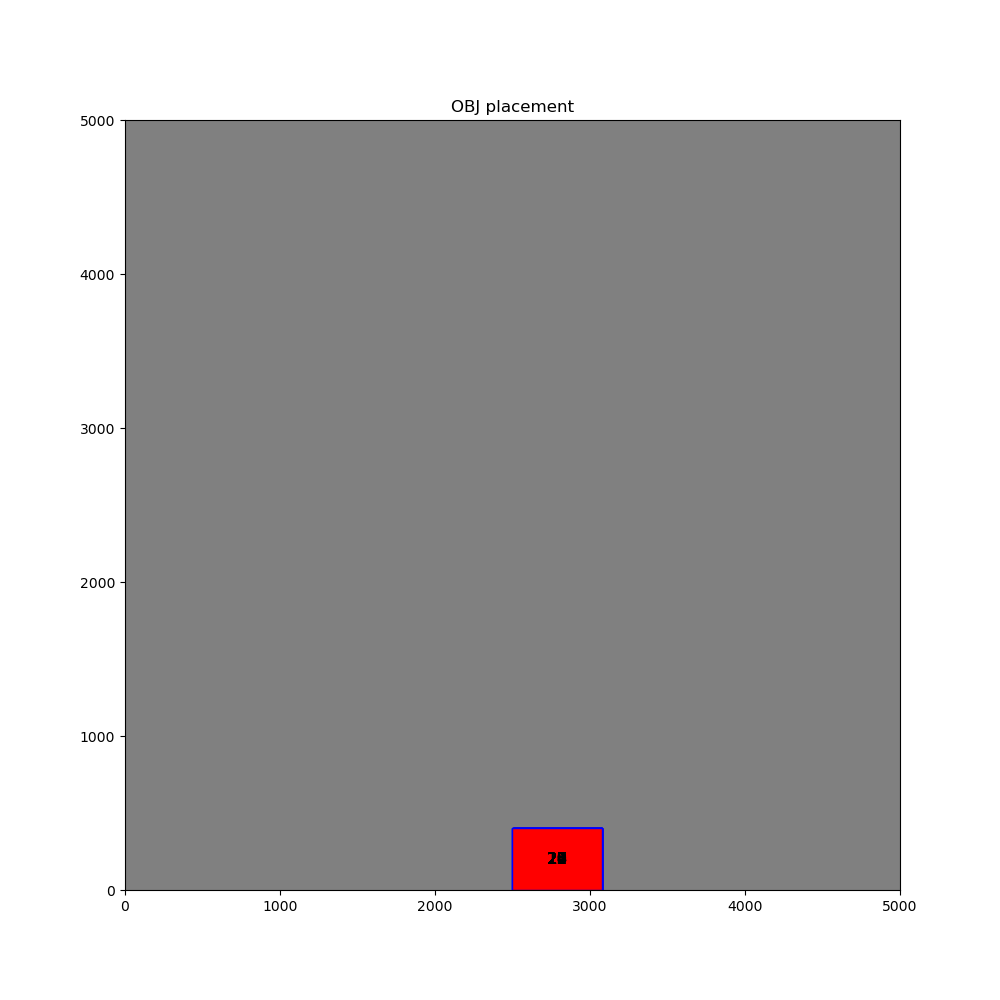
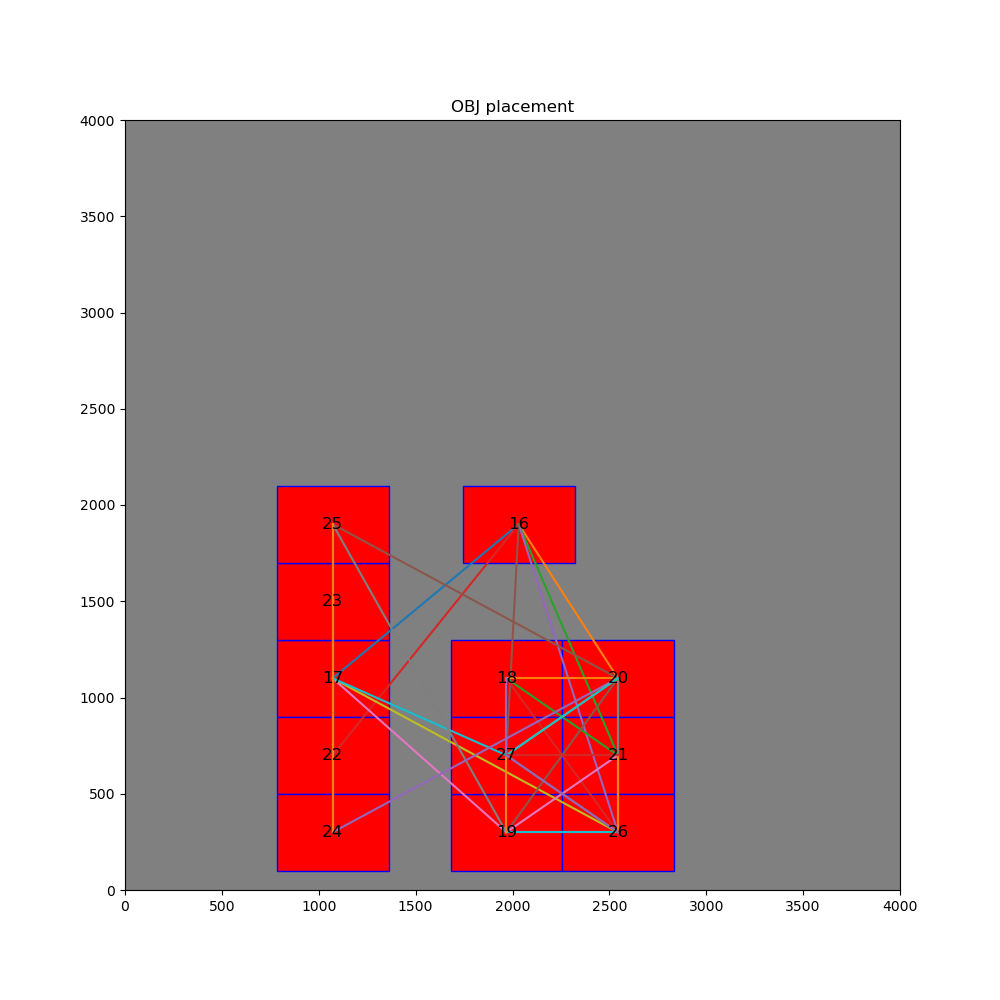
Added symmetry, tweaked heuristic. Started working on auxillery functions

diff --git a/linear_optimization/linear_optimization_test2.py b/linear_optimization/linear_optimization_test2.py
@@ -1,14 +1,5 @@
-from fontTools.varLib.models import subList
-
 from circuit.circuit_components import Pin, CircuitCell, Transistor
 import pulp
-
-
-def _element_in_sublist(element, big_list):
-    for small_list in big_list:
-        if element in small_list:
-            return True
-    return False
 
 
 class LinearOptimizationSolver:
@@ -16,17 +7,17 @@ class LinearOptimizationSolver:
     UNIT_HEIGHT = 100
     UNIT_WIDTH = 64
 
-    OFFSET_X = 184
-    OFFSET_Y = 128
-
-    MIRROR =True
+    OFFSET_X = (184+ 100)*0
+    OFFSET_Y = (128 + 100)*0
+    CONSTRAIN_MANHATTAN = False
+    SKIP = True
 
     RUN = True
 
     def __init__(self, object_info, connections, local_connections, grid_size, overlap_dict):
 
         self.problem_space = pulp.LpProblem("ObjectPlacementWithSizes", pulp.LpMinimize)
-        self.solver = pulp.PULP_CBC_CMD(msg=True, threads=75, timeLimit=2* 60)
+        self.solver = pulp.PULP_CBC_CMD(msg=True, threads=75, timeLimit=10* 60)
         self.object_info = object_info
         self.objects = []
         self.overlap_dict = overlap_dict
@@ -40,8 +31,6 @@ class LinearOptimizationSolver:
         self.grid_size = grid_size
         self.width = {}
         self.height = {}
-        if self.MIRROR:
-            self.mirrored_objects = self._check_mirrored_components()
 
 
 
@@ -53,8 +42,6 @@ class LinearOptimizationSolver:
         self.coordinates_y = {}
 
         self.test_var = pulp.LpVariable("test_var", lowBound=0)
-
-
         # bounds
         self.x_min = pulp.LpVariable("x_min", lowBound=0)
         self.x_max = pulp.LpVariable("x_max", lowBound=0)
@@ -71,50 +58,10 @@ class LinearOptimizationSolver:
                 self.width[o1.number_id] = o1.bounding_box.x2 - o1.bounding_box.x1
                 self.height[o1.number_id] = o1.bounding_box.y2 - o1.bounding_box.y1
 
-    def _check_mirrored_components(self):
-        mirrored_objects = []
-        comp = self.object_info[:]
-
-        for obj in self.object_info:
-            group = []
-            for obj1 in comp:
-                if not isinstance(obj, Pin) and not isinstance(obj, CircuitCell) and not isinstance(obj1, Pin) and not isinstance(obj1, CircuitCell):
-                    if obj.group == obj1.group and obj != obj1 and obj.group is not None:
-
-                        group.append([obj,obj1])
-            if len(group) == 1 and ([group[0][1],group[0][0]]) not in mirrored_objects:
-                mirrored_objects.append([group[0][0],group[0][1]])
-                comp.remove(group[0][0])
-                comp.remove(group[0][1])
-
-        #Faux mirrored objects:
-
-        for obj in self.object_info:
-            group = []
-            if not _element_in_sublist(obj, mirrored_objects):
-                for obj1 in comp:
-                    if not isinstance(obj, Pin) and not isinstance(obj, CircuitCell) and not isinstance(obj1,Pin) and not isinstance(obj1, CircuitCell):
-                        if [obj.number_id,obj1.number_id] in self.overlap_dict["top"] and [obj.number_id,obj1.number_id] in self.overlap_dict["side"]:
-                            group.append([obj, obj1])
-                            break
-
-                if len(group) == 1:
-                    if ([group[0][0], group[0][1]]) not in mirrored_objects and ([group[0][1],group[0][0]]) not in mirrored_objects:
-                        mirrored_objects.append([group[0][0], group[0][1]])
+                print(self.width[o1.number_id])
+                print(self.height[o1.number_id])
 
 
-        for obj in mirrored_objects:
-            print("Pair")
-            print(obj[0].number_id)
-            print(obj[1].number_id)
-        return mirrored_objects
-
-    def _constrain_mirror(self):
-        if self.MIRROR:
-            for obj in self.mirrored_objects:
-
-                self.problem_space += self.coordinates_x[obj[0].number_id] + self.width[obj[0].number_id] == self.grid_size - self.coordinates_x[obj[1].number_id]
-                self.problem_space += self.coordinates_y[obj[0].number_id] ==  self.coordinates_y[obj[1].number_id]
 
     def _extract_possible_positions(self):
         x = []
@@ -161,7 +108,8 @@ class LinearOptimizationSolver:
         x.sort()
         y.sort()
 
-
+        print(x)
+        print(y)
         return x, y
 
     def _get_port_parameters(self, obj):
@@ -237,8 +185,9 @@ class LinearOptimizationSolver:
             self.coordinates_y[o1] = pulp.lpSum([yv * self.y[(o1, yv)] for yv in self.y_pos])
 
         for o1 in self.objects:
-            self.problem_space += self.coordinates_x[o1] + self.width[o1] + (self.OFFSET_X//2)   <= self.grid_size
-            self.problem_space += self.coordinates_y[o1] + self.height[o1]  + (self.OFFSET_Y//2) <= self.grid_size
+
+            self.problem_space += self.coordinates_x[o1] + self.width[o1]    <= self.grid_size
+            self.problem_space += self.coordinates_y[o1] + self.height[o1]   <= self.grid_size
 
             self.problem_space += self.x_max >= self.coordinates_x[o1] + self.width[o1]
             self.problem_space += self.x_min <= self.coordinates_x[o1]
@@ -247,49 +196,25 @@ class LinearOptimizationSolver:
 
             for o2 in object_list:
 
-                #if o1 != o2 and [(o1,o2) ]not in self.mirrored_objects :
-                if o1 != o2:
-                    z1 = pulp.LpVariable(f"z1_{o1}_{o2}", cat='Binary')
-                    z2 = pulp.LpVariable(f"z2_{o1}_{o2}", cat='Binary')
-                    z3 = pulp.LpVariable(f"z3_{o1}_{o2}", cat='Binary')
-                    z4 = pulp.LpVariable(f"z4_{o1}_{o2}", cat='Binary')
+                z1 = pulp.LpVariable(f"z1_{o1}_{o2}", cat='Binary')
+                z2 = pulp.LpVariable(f"z2_{o1}_{o2}", cat='Binary')
+                z3 = pulp.LpVariable(f"z3_{o1}_{o2}", cat='Binary')
+                z4 = pulp.LpVariable(f"z4_{o1}_{o2}", cat='Binary')
 
-                    self.problem_space += z1 + z2 + z3 + z4 == 1, f"NonOverlap_{o1}_{o2}"
-                    if [o1,o2] in self.overlap_dict["top"] and [o1,o2] in self.overlap_dict["side"]:
-                        self.problem_space += self.coordinates_x[o1] + self.width[o1]  <= self.coordinates_x[o2] + self.grid_size * (1 - z1), f"LeftOf_{o1}_{o2}"
-                        self.problem_space += self.coordinates_x[o2] + self.width[o2] <= self.coordinates_x[o1] + self.grid_size * (1 - z2), f"RightOf_{o1}_{o2}"
-                        self.problem_space += self.coordinates_y[o1] + self.height[o1]  <= self.coordinates_y[o2] + self.grid_size * (1 - z3), f"Below_{o1}_{o2}"
-                        self.problem_space += self.coordinates_y[o2] + self.height[o2]  <= self.coordinates_y[o1] + self.grid_size * (1 - z4), f"Above_{o1}_{o2}"
+                self.problem_space += z1 + z2 + z3 + z4 == 1, f"NonOverlap_{o1}_{o2}"
 
-                    elif [o1,o2] in self.overlap_dict["side"]:
-                        self.problem_space += self.coordinates_x[o1] + self.width[o1]  <= self.coordinates_x[o2] + self.grid_size * (1 - z1), f"LeftOf_{o1}_{o2}"
-                        self.problem_space += self.coordinates_x[o2] + self.width[o2] <= self.coordinates_x[o1] + self.grid_size * (1 - z2), f"RightOf_{o1}_{o2}"
-                        self.problem_space += self.coordinates_y[o1] + self.height[o1] + self.OFFSET_Y  <= self.coordinates_y[o2] + self.grid_size * (1 - z3), f"Below_{o1}_{o2}"
-                        self.problem_space += self.coordinates_y[o2] + self.height[o2] + self.OFFSET_Y  <= self.coordinates_y[o1] + self.grid_size * (1 - z4), f"Above_{o1}_{o2}"
 
-                    elif [o1,o2] in self.overlap_dict["top"]:
-                        self.problem_space += self.coordinates_x[o1] + self.width[o1] + self.OFFSET_X  <= self.coordinates_x[o2] + self.grid_size * (1 - z1), f"LeftOf_{o1}_{o2}"
-                        self.problem_space += self.coordinates_x[o2] + self.width[o2] + self.OFFSET_X  <= self.coordinates_x[o1] + self.grid_size * (1 - z2), f"RightOf_{o1}_{o2}"
-                        self.problem_space += self.coordinates_y[o1] + self.height[o1] <= self.coordinates_y[o2] + self.grid_size * (1 - z3), f"Below_{o1}_{o2}"
-                        self.problem_space += self.coordinates_y[o2] + self.height[o2]  <= self.coordinates_y[o1] + self.grid_size * (1 - z4), f"Above_{o1}_{o2}"
-                    else:
-
-                        self.problem_space += self.coordinates_x[o1] + self.width[o1] +self.OFFSET_X <= self.coordinates_x[o2] + self.grid_size * (1 - z1), f"LeftOf_{o1}_{o2}"
-                        self.problem_space += self.coordinates_x[o2] + self.width[o2] +self.OFFSET_X <= self.coordinates_x[o1] + self.grid_size * (1 - z2), f"RightOf_{o1}_{o2}"
-                        self.problem_space += self.coordinates_y[o1] + self.height[o1]+self.OFFSET_Y <= self.coordinates_y[o2] + self.grid_size * (1 - z3), f"Below_{o1}_{o2}"
-                        self.problem_space += self.coordinates_y[o2] + self.height[o2]+self.OFFSET_Y <= self.coordinates_y[o1] + self.grid_size * (1 - z4), f"Above_{o1}_{o2}"
+                self.problem_space += self.coordinates_x[o1] + self.width[o1]  <= self.coordinates_x[o2] + self.grid_size * (1 - z1), f"LeftOf_{o1}_{o2}"
+                self.problem_space += self.coordinates_x[o2] + self.width[o2]  <= self.coordinates_x[o1] + self.grid_size * (1 - z2), f"RightOf_{o1}_{o2}"
+                self.problem_space += self.coordinates_y[o1] + self.height[o1] <= self.coordinates_y[o2] + self.grid_size * (1 - z3), f"Below_{o1}_{o2}"
+                self.problem_space += self.coordinates_y[o2] + self.height[o2] <= self.coordinates_y[o1] + self.grid_size * (1 - z4), f"Above_{o1}_{o2}"
 
             object_list.remove(o1)
 
 
 
     def _solve_linear_optimization_problem(self):
-       # self.problem_space += pulp.lpSum(
-        #    [self.d_x[(o1.starting_comp, o1.end_comp)] + self.d_y[(o1.starting_comp, o1.end_comp)] for o1 in
-         #    self.connections.values()]) + (self.x_max - self.x_min) * 10000000, "totalWireLength"
-        self.problem_space += pulp.lpSum(
-            [self.d_x[(o1.starting_comp, o1.end_comp)] + self.d_y[(o1.starting_comp, o1.end_comp)] for o1 in
-            self.connections.values()])*0.001 +(self.x_max - self.x_min) *100  , "totalWireLength"
+        self.problem_space += pulp.lpSum((self.x_max - self.x_min) +(self.y_max-self.y_min))  , "totalWireLength"
         self.problem_space.solve(self.solver)
 
     def _print_status(self):
@@ -302,13 +227,6 @@ class LinearOptimizationSolver:
                 f"[INFO] Object {obj} is placed at ({pulp.value(self.coordinates_x[obj])}, {pulp.value(self.coordinates_y[obj])})")
 
         total_length = pulp.value(self.problem_space.objective)
-
-        print("These are the mirrored pairs:")
-        i = 1
-        for obj in self.mirrored_objects:
-            print(f"Pair {i}")
-            print(obj[0].number_id)
-            print(obj[1].number_id)
         print(f"[INFO] Total wire length: {total_length}")
 
     def _update_object_info(self):
@@ -324,9 +242,9 @@ class LinearOptimizationSolver:
     def initiate_solver(self):
 
         self._constraint_overlap()
-        self._constraint_minimize_manhattan_distance()
-        if self.MIRROR:
-            self._constrain_mirror()
+        if self.CONSTRAIN_MANHATTAN:
+            self._constraint_minimize_manhattan_distance()
+
         if self.RUN:
             self._solve_linear_optimization_problem()
             self._print_status()

diff --git a/main.py b/main.py
@@ -5,6 +5,10 @@ from circuit.circuit_components import *
 from json_tool.json_converter import load_from_json, save_to_json
 import pulp
 
+from path.a_star import initiate_astar
+from path.simplify_path import simplify_all_paths
+
+
 @dataclass
 class Connection:
     starting_comp: str
@@ -25,6 +29,8 @@ def draw_result(grid_size, objects, connections):
     fix, ax = plt.subplots(figsize=(10, 10))
     ax.set_xlim(0, grid_size)
     ax.set_ylim(0, grid_size)
+
+
 
     # draw grid
 
@@ -63,15 +69,16 @@ def draw_result(grid_size, objects, connections):
                     break
         plt.plot(x_values, y_values)
 
+        plt.plot([grid_size//2, grid_size//2], [0, grid_size])
 
 
 
 
     plt.title('OBJ placement')
-    plt.savefig('Results/ResultV21.png')
+    plt.savefig('Results/ResultV21Mirrored5.png')
 
 
-def generate_grid(grid_size, objects, height, width, xpos, ypos, center):
+def generate_grid(grid_size, objects):
     grid = []
     value_appended = False
 
@@ -264,7 +271,7 @@ def diff_components(components):
 def main():
     # Define grid size and objects
 
-    grid_size = 5000
+    grid_size = 3000
 
     components = load_from_json(file_name='json_tool/components.json')
 
@@ -273,7 +280,6 @@ def main():
     overlap_dict = _overlap_transistors(components)
 
     run = True
-    center = True
     clean_path = True
 
     if run:
@@ -281,22 +287,22 @@ def main():
         print("[INFO]: Starting Linear Optimization")
         result =  LinearOptimizationSolver(components, connections, local_connections, grid_size, overlap_dict)
         objects = result.initiate_solver()
-        save_to_json(objects, file_name="Results/ResultV21.json")
+        save_to_json(objects, file_name="Results/ResultV21Mirrored5.json")
         print("[INFO]: Finished Linear Optimization")
         print("[INFO]: Starting Grid Generation")
-        #grid = generate_grid(grid_size, objects, new_height, new_width, x, y, center)
+        grid = generate_grid(grid_size, objects)
         print("[INFO]: Finished Grid Generation")
         print("[INFO]: Starting Initiate A*")
-        #path = initiate_astar(grid, x, y, new_width, new_height, connections, center)
+        path = initiate_astar(grid,  connections, objects)
         print("[INFO]: Finished A*")
         print("[INFO]: Starting Simplifying Paths")
-        # cleaned_paths = simplify_all_paths(path)
+        cleaned_paths = simplify_all_paths(path)
         print("[INFO]: Finished Simplifying Paths")
         print("[INFO]: Starting Drawing Results")
-        #if clean_path:
-        #  draw_result(grid_size, objects, cleaned_paths, new_height, new_width, x, y)
-        #else:
-        draw_result(grid_size, objects, connections)
+        if clean_path:
+            draw_result(grid_size, objects, cleaned_paths)
+        else:
+            draw_result(grid_size, objects, connections)
         print("[INFO]: Finished Drawing Results")
 
 
